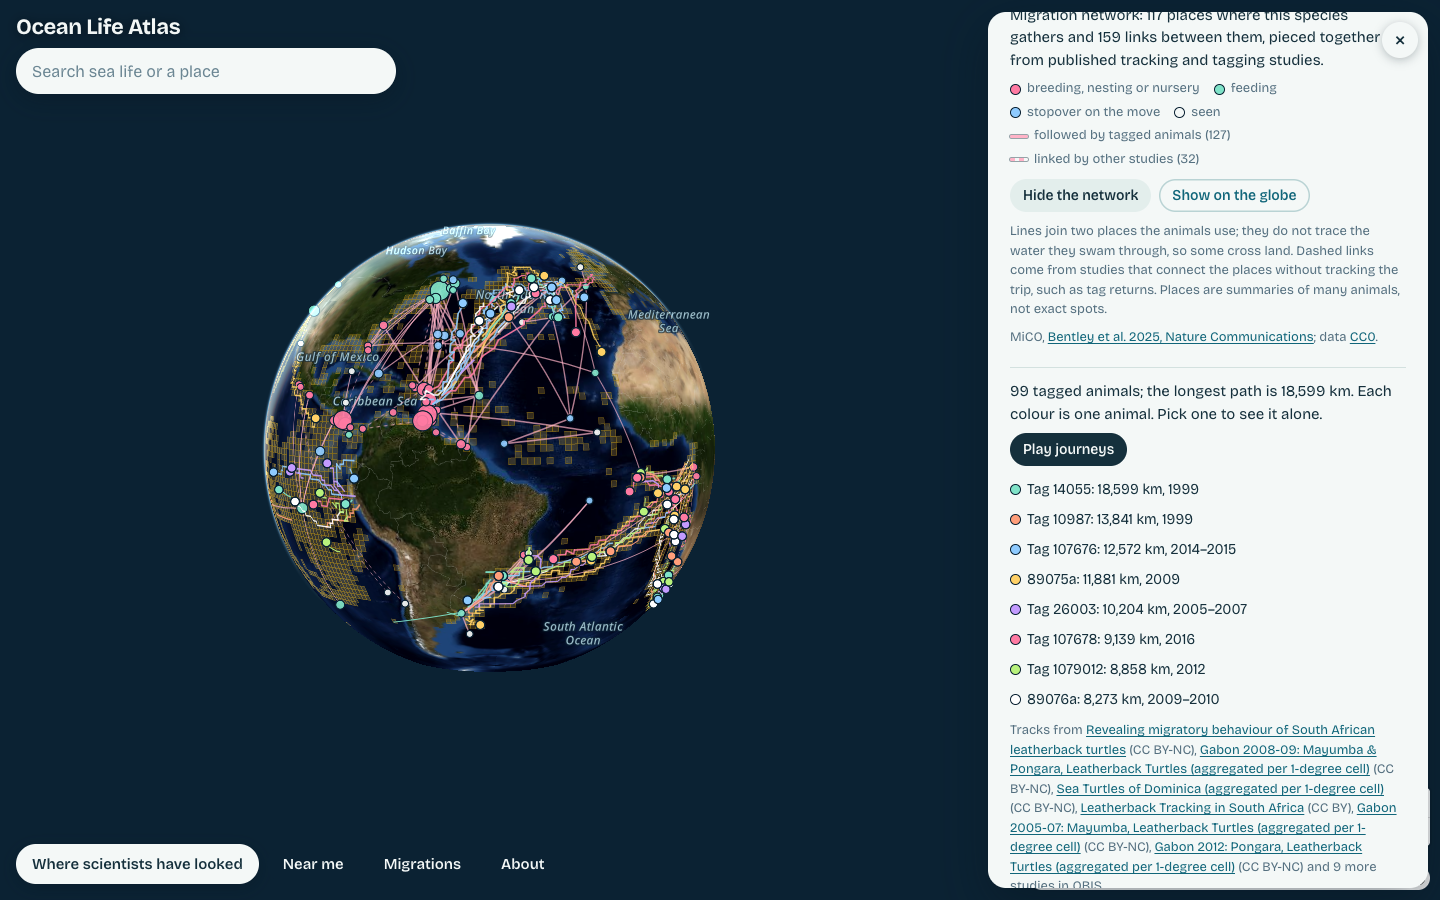
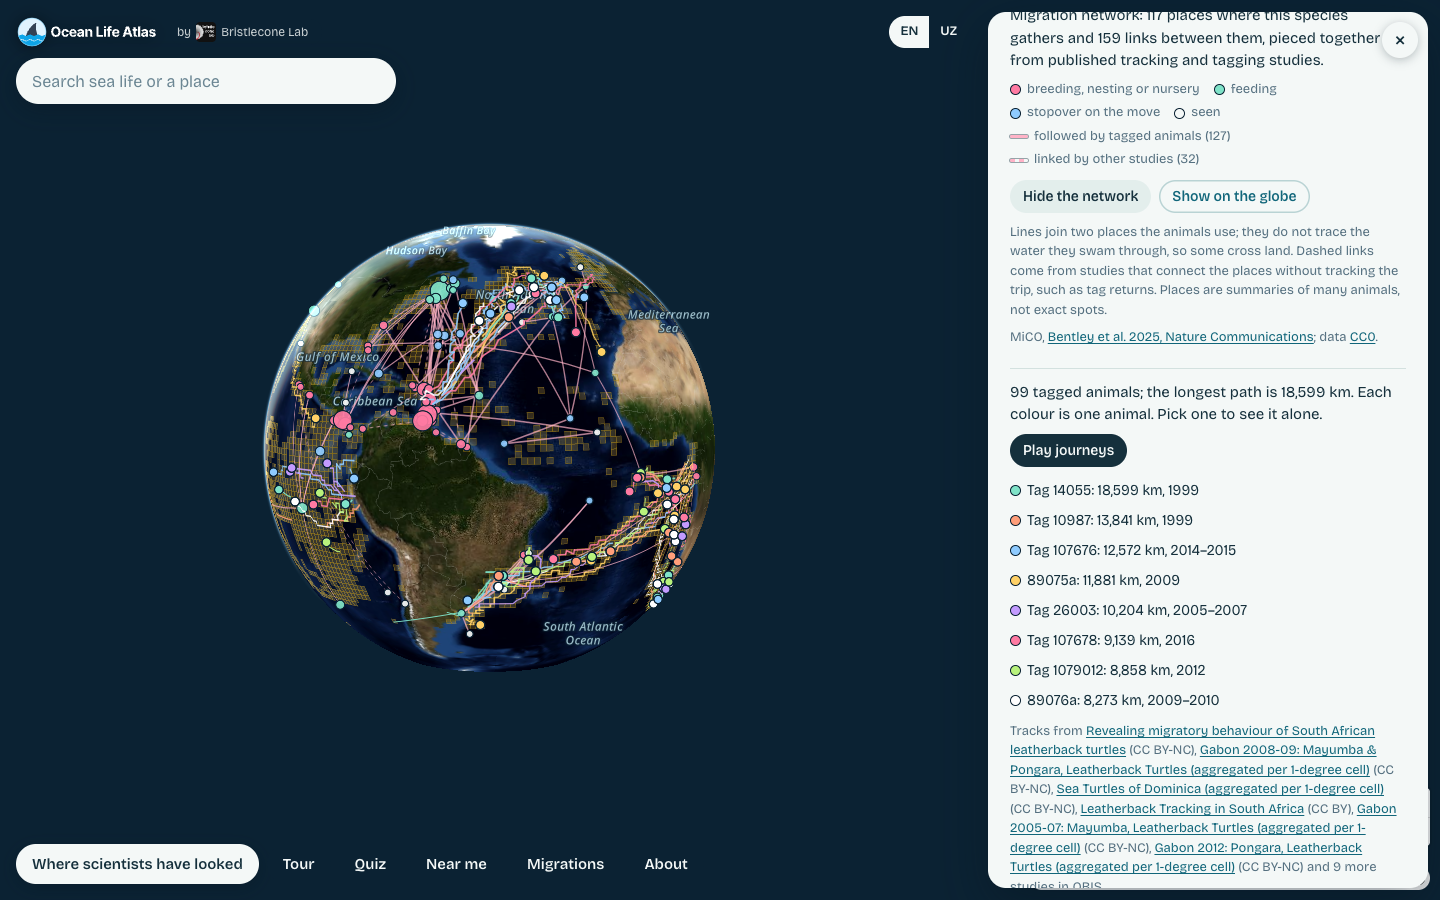
Short README: what it is in one line, the live link, a picture, what you can do
Drops the long feature list, the how-it-works tables and the development notes;
fresh screenshots with the logo.

diff --git a/README.md b/README.md
@@ -2,192 +2,49 @@
   <a href="https://oceanlife.bristleconelab.org">
     <picture>
       <source media="(prefers-color-scheme: dark)" srcset="public/brand/ocean-life-atlas-logo-dark.svg">
-      <img src="public/brand/ocean-life-atlas-logo-light.svg" alt="Ocean Life Atlas" width="420">
+      <img src="public/brand/ocean-life-atlas-logo-light.svg" alt="Ocean Life Atlas" width="400">
     </picture>
   </a>
 </p>
 
-# Ocean Life Atlas
+<p align="center">
+  <b>Click anywhere in the ocean and see what lives there.</b><br>
+  A free 3D globe of sea life: photos and plain names, where each animal lives, how deep, how it migrates,<br>
+  and where nobody has looked yet. Built on 200 million open records.
+</p>
 
-**Click the sea, see who lives there.** An open, plain-language atlas of ocean life on a 3D globe.
+<p align="center"><b><a href="https://oceanlife.bristleconelab.org">oceanlife.bristleconelab.org</a></b></p>
 
-**Live: https://oceanlife.bristleconelab.org**
+<p align="center"><a href="https://oceanlife.bristleconelab.org/#at=-16.50,146.20"><img src="docs/img/life-here.png" alt="The Great Barrier Reef: 3,374 species with photos, names and Red List status" width="900"></a></p>
 
-- Click any spot in the ocean (or *Near me*): the panel lists the sea animals and plants recorded within that 1.4°
-  square (about 150 km across), with photos, everyday names, Red List status and a filter by kind (fish, sharks and
-  rays, sea turtles, sea mammals, seabirds, corals, shells and octopus, crabs, starfish, seaweed and seagrass,
-  plankton, sponges and worms). The mixed view leads with familiar species that have a photo.
-- One search box for sea life and places: an everyday name in any language Wikidata knows ("octopus", "kit akula",
-  "китовая акула"), a scientific name (*Rhincodon typus*), or a sea, gulf, island or reef ("Galapagos", "Red Sea",
-  "Aral Sea"). A species page shows where it has been recorded, a photo, a summary from Wikipedia in the reader's
-  language, how deep it usually lives and the sea surface temperature where it was recorded.
-- **How it travels**, on species pages: the published migration network (places where the species breeds, feeds,
-  stops over or spends a season, and the links between them, from MiCO; solid = followed by tagged animals, dashed =
-  linked by other studies) and, on request, the paths of individual animals that carried satellite or acoustic tags.
-  *Play journeys* runs all of them on one clock, "day N after tagging"; pick one animal to see it alone. Click a
-  place, a link or a track on the globe to see what it is.
-- **When it is recorded**: records by month, north and south of the equator apart (their seasons are opposite), with a
-  tagged animal counted once a day; and records by decade.
-- **Migrations** lists the 109 species with a mapped migration network, by kind of animal, with a filter.
-- The globe has country borders and sea names (OpenStreetMap), Sentinel-2 imagery when you zoom in close, and every
-  place and species is a step in the browser history, so Back works as expected.
-- **How well is this water known?** Each square gets a Chao1 inventory-completeness estimate (how many more species more
-  looking would probably turn up) and the years of its first and last record; *Where scientists have looked* can colour
-  the squares by records per area or by how long ago anyone last recorded anything there.
-- **Size and voice**: body length, weight and lifespan from Wikidata, drawn against a person, and a sound recording from
-  Wikimedia Commons where one exists (humpback song, leatherback hatchlings).
-- **Then and now**: a species' squares before 1990 and since 2010 on one map, with the change in average distance from
-  the equator (and a plain warning that the surveys moved too).
-- **Side by side**: compare two species (records, usual depth, surface temperature, Red List, where their ranges meet).
-- **Take it with you**: the species list of a square as CSV, a range as GeoJSON, and a ready citation.
-- **Tour**: seven stops, from the most-studied coasts to water nobody has looked at in fifty years.
-- **Quiz**: "who has been recorded here?" The globe flies to a well-known sea (Great Barrier Reef, Galápagos, Antarctic
-  Peninsula...); one of four photographed animals is on that square's real OBIS list, the three others come from other
-  quiz places and are checked never to have been recorded there.
-- **How complete**, a third colouring of *Where scientists have looked*: every H3 hexagon of the ocean (~12,400 km²)
-  coloured by the share of its likely species already recorded (Chao1), computed from the whole OBIS store.
-- Interface in English and Uzbek (EN / UZ switch; animal names and Wikipedia follow the chosen language).
-- Species without a photo get a drawn silhouette of their kind instead of a blank tile.
-- Switch on **Where scientists have looked** to see how unevenly the ocean has been sampled. A short species list
-  usually means few people have looked, not that little lives there, and the atlas says so.
+## What you can do
 
-![Life in the outlined square on the Great Barrier Reef](docs/img/life-here.png)
+- **Click the sea:** every species recorded in that 150 km square, with photos, names and Red List status.
+- **Search an animal or a place** in English, Uzbek or any language Wikidata knows: its range, depth, water temperature, size and voice.
+- **Follow migrations:** networks of 109 species and the real tracks of tagged animals such as leatherback turtles and whale sharks.
+- **See the gaps:** where scientists have looked, how long ago, and how complete each area's species list is.
+- **Explore:** then and now, two species side by side, a quiz, a guided tour, lists as CSV.
 
-| A species page | Where scientists have looked |
+| Migrations and tag tracks | How complete each area is |
 |---|---|
-| ![Great hammerhead: photo, Red List status, depth, where it has been recorded](docs/img/species.png) | ![Records per 10,000 km² at sea: bright = many, violet = few, plain globe = none](docs/img/looked.png) |
+| <img src="docs/img/journeys.png" alt="Leatherback sea turtle: migration network and tracks of tagged turtles"> | <img src="docs/img/complete.png" alt="Share of likely species recorded, per hexagon of ocean"> |
 
-| How it travels: leatherback turtle | Follow a migration |
-|---|---|
-| ![Leatherback sea turtle: MiCO migration network and 99 tagged turtles on one clock](docs/img/journeys.png) | ![List of 109 species with a migration network, by kind](docs/img/migrations.png) |
+A short list usually means few people looked, not that little lives there.
 
-| Search by everyday name | On a phone |
-|---|---|
-| ![Searching "octopus": common octopus first](docs/img/search.png) | <img src="docs/img/phone.png" alt="Red Sea on a phone" width="260"> |
+## Data
 
-Every place and species has its own link, for example
-[`#at=-16.50,146.20`](https://oceanlife.bristleconelab.org/#at=-16.50,146.20) (a place) or
-[`#sp=105817`](https://oceanlife.bristleconelab.org/#sp=105817) (a species).
+[OBIS](https://obis.org) (species records), [WoRMS](https://www.marinespecies.org) (names), [Wikidata](https://www.wikidata.org) and
+[Wikimedia Commons](https://commons.wikimedia.org) (photos, names, sounds), [Wikipedia](https://www.wikipedia.org) (summaries),
+[MiCO](https://doi.org/10.1038/s41467-025-59271-7) (migrations), [Marine Regions](https://www.marineregions.org) (places),
+NASA Blue Marble and Sentinel-2 cloudless by EOX (imagery), OpenStreetMap (borders and names).
+Each source keeps its own licence (CC0, CC BY or CC BY-SA); photos and tracking studies are credited where they appear.
 
-## Why
+## Cite
 
-The data already exists: [OBIS](https://obis.org) holds more than 260 million records of where marine species were
-seen or sampled (about 203 million of them at sea once records flagged as on land are left out). But the tools built on it expect you to know Latin names and filter syntax: the OBIS Mapper opens on
-an empty map that only accepts scientific names, AquaMaps is a 2019 site with a small static map, and GBIF's map shows
-the whole planet as repeated dots. This atlas asks the two questions a curious person asks, "what lives here?" and
-"where does this animal live?", and answers them with pictures and everyday words.
+> Ocean Life Atlas (2026). Bristlecone Lab. https://oceanlife.bristleconelab.org. Data: OBIS (2026) Ocean Biodiversity
+> Information System, Intergovernmental Oceanographic Commission of UNESCO, https://obis.org.
 
-## How it works
-
-The site is static: there is no server, and everything is fetched live by your browser from open services that allow
-it.
-
-| Question | Source |
-|---|---|
-| Which species were recorded in this square, how often, Red List status | OBIS API `checklist` (up to 5,000 taxa) and `statistics`, both with `exclude=ON_LAND`; species WoRMS marks as land- or freshwater-only are left out |
-| Where a species has been recorded | OBIS API `occurrence/grid` (geohash-3 squares, `exclude=ON_LAND`) |
-| How deep it lives | OBIS API `statistics/env`: the middle half of depth records (25th to 75th percentile, interpolated on OBIS's 10/100/1,000 m bin ladder); records above the surface are counted apart |
-| Sea surface temperature where recorded | same answer, middle 80 % of the 5 °C bins |
-| Search | WoRMS `AphiaRecordsByVernacular` and OBIS name completion (Latin script), Wikidata `wbsearchentities` (any language, mapped to WoRMS ids through P850), Marine Regions `getGazetteerRecordsByName` (places); species ranked by exact name, then same kind as the exact matches, then OBIS record count |
-| Photo, everyday name in the reader's language, Wikipedia article | Wikidata through [QLever](https://qlever.dev) (Wikidata Query Service as fallback): by WoRMS id (P850), then by scientific name (P225), following old names to the accepted taxon (P12765); photo credits from the Commons API |
-| Sea name for a point | Marine Regions gazetteer |
-| Tracks of tagged animals | OBIS occurrence rows with `basisOfRecord` = MachineObservation and an `organismID` (satellite and acoustic tags, e.g. the US Animal Telemetry Network and IMOS). The API ignores a basis-of-record filter, so a 5,000-row sample finds the tracking studies; then whole studies are paged in (up to 40,000 rows, 40 studies) and studies that do not fit are skipped, never cut short. |
-| Months and decades | months from the same random sample (OBIS orders rows by random UUID); decades from OBIS `statistics/years` |
-| Migration networks | MiCO, stored in `public/data/mico/` (492 KB, 109 species, 1,706 links) by `npm run mico` |
-| Globe | NASA Blue Marble through GIBS; Sentinel-2 cloudless 2016 by EOX (CC BY 4.0) from zoom 6; borders and names from OpenStreetMap vector tiles through OpenFreeMap |
-| Inventory completeness | bias-corrected Chao1 from records per species in the square (shown only when the whole list fits in one answer, because the missing tail is exactly the rare species Chao1 needs) |
-| How complete (global) | `scripts/build_h3_completeness.py`: DuckDB over the OBIS open-data parquet files (s3://obis-open-data/occurrence, 7,466 files, 99 GB in 2026-11; mirrored first, because reading thousands of small remote files from Central Asia ran at ~200 KB/s), records per species per H3 resolution-3 cell (not dropped, not absent, not ON_LAND), bias-corrected Chao1 per cell where it holds 20 species or more; written with the hexagon outlines so the browser needs no H3 library |
-| Last looked at | `npm run data` also fetches the grid for records since 10, 20 and 50 years ago and stores the newest period per square |
-| Size, lifespan, sound | Wikidata P2043 length, P2067 mass, P2250 life expectancy (largest value, units converted) and P51 audio; Commons MP3 transcode for Safari |
-| Then and now | OBIS `occurrence/grid` with `enddate=1989-12-31` and `startdate=2010-01-01`; shift = change in the mean absolute latitude of the squares |
-
-Two things are stored with the site:
-
-- `public/data/records-gh3.json` (150 KB): OBIS records at sea (`exclude=ON_LAND`) in each of 21,698 geohash-3
-  squares, for *Where scientists have looked*; the globe shows them per 10,000 km², because a square at 70° is a
-  third the area of one at the equator. Rebuild with `npm run data` (about 10 s, checks the cell count).
-- `public/data/mico/` (492 KB): one file per species with MiCO sites and links, keyed by WoRMS AphiaID. MiCO's route
-  table has one row per route *and per pair of EEZs it touches* (25,241 rows); the build keys routes by the metasite
-  ids and joins both directions, which leaves 1,706 links (1,177 followed by tagged animals). Rebuild with
-  `npm run mico`: it downloads the Zenodo archive, checks its MD5, matches names through WoRMS (5 by a short list of
-  known scientific names in the script) and fails if fewer than 90 species match.
-
-## Honest limits
-
-- A species list is a record of what was found, not a census. Record counts show where people looked and what they
-  looked for: in the Great Barrier Reef square at 16.5° S, 146.2° E the most-recorded species are a 1 mm copepod and a
-  single-celled dinoflagellate from plankton surveys, then a tern from bird counts (OBIS, 2026-11-26). The "All" view therefore takes each kind of life in turn (plankton and "others" less often) and leads with
-  species that have a photo; the chips show each kind in full, most-recorded first.
-- When a square holds more than 5,000 names (the Great Barrier Reef square holds 9,386), the panel says it shows the
-  5,000 most recorded.
-- Squares are 1.4° on a side, so a square at the coast also holds shore records; on land the panel says so. Records
-  OBIS flags as on land are left out, but a wrong position at sea cannot be told from a right one and appears as it is.
-- Depth: some datasets file the sea-floor depth under the animal's depth, which is why the text uses the middle half of
-  records; the zone chart shows the full spread. Surface temperature is the water at the surface above the record, not
-  where a deep animal lives, and the page says so for deep species.
-- Tracks: tags only report where an animal was when a satellite or a listening station picked it up. Gaps longer
-  than 20 days are left open. Fixes that would need more than a believable speed for the kind of animal (seabirds
-  1,200 km a day, fish, sharks and whales 300, turtles 200, sea cows 100) are dropped; a bad first fix is found by
-  starting from whichever early fix the most later fixes agree with; moves under 5 km do not add to the distance. Some
-  studies round positions to 1° squares to protect the animals, which makes their paths look stepped. Tracking
-  studies are found from a sample, so a very small study can be missed, and the page says "none in a random sample",
-  not "none".
-- MiCO places summarise many animals and studies; they are not exact spots. Its links join two places with a
-  great-circle line, which shows that the places are connected, not the path swum, so some cross land.
-- Interface text is in English; animal names and Wikipedia summaries follow the browser's language where Wikidata has
-  them.
-- Photos and names depend on Wikidata coverage. Where Wikidata has no everyday name, the English name from WoRMS is
-  used; where neither exists, the scientific name is shown.
-
-## Data licences
-
-| Data | Licence |
-|---|---|
-| OBIS records | per dataset, mostly CC BY 4.0 or CC0; cite OBIS (2026) Ocean Biodiversity Information System, Intergovernmental Oceanographic Commission of UNESCO, https://obis.org |
-| WoRMS names | CC BY 4.0, WoRMS Editorial Board (2026) World Register of Marine Species, https://www.marinespecies.org |
-| Wikidata | CC0 |
-| Photos | each file's own licence on Wikimedia Commons, shown with the photo |
-| Wikipedia summaries | CC BY-SA 4.0 |
-| Marine Regions | CC BY 4.0 |
-| NASA Blue Marble | public domain |
-| Borders and place names | © OpenStreetMap contributors, ODbL; tiles by OpenFreeMap |
-| Close-up imagery | Sentinel-2 cloudless 2016 by EOX IT Services, CC BY 4.0 (contains modified Copernicus Sentinel data 2016) |
-| Sounds | each file's own licence on Wikimedia Commons, shown with the player |
-| MiCO migration networks | CC0 1.0; Bentley et al. (2025) Marine megavertebrate migrations connect the global ocean, Nature Communications, https://doi.org/10.1038/s41467-025-59271-7; data https://doi.org/10.5281/zenodo.14873514 |
-| Tracking studies | each study's own licence (CC BY or CC BY-NC), named on the species page |
-
-Code: MIT (see `LICENSE`).
-
-## Search engines
-
-The globe opens species and places by `#sp=` and `#at=` links, which search engines do not read as pages. So
-`scripts/seo_pages.mjs` writes static pages with the real numbers from OBIS, WoRMS and Wikidata: `/species/<name>/`
-for 133 well-known sea animals (the 109 MiCO species and famous ones such as the clownfish, orca and giant squid; with
-the Uzbek name where Wikidata has one), `/places/<name>/` for 12 seas and reefs, `/about/` (FAQ, citation, Dataset
-JSON-LD for the completeness layer), `sitemap.xml` and `robots.txt`. The home page carries WebApplication and WebSite
-JSON-LD and `<noscript>` links. Regenerate with `node scripts/seo_pages.mjs` (about a minute), commit, and after the
-deploy run `scripts/indexnow.sh`. Google Search Console covers the site through the `bristleconelab.org` domain
-property.
-
-## Development
-
-```sh
-npm install
-npm run dev        # http://localhost:5173/ (scripts/screenshots.mjs expects port 5199: npx vite --port 5199)
-npm test           # unit tests (geohash, grouping, depth and temperature, search ranking, places, names, licences, URL state, track cleaning, seasons, MiCO)
-npm run build      # typecheck + production build in dist/
-npm run shots      # regenerate docs/img/*.png from a running dev server (needs Google Chrome)
-```
-
-Pushes to `main` run the tests, build the site and publish it to Cloudflare Pages (project `ocean-life-atlas`,
-`.github/workflows/deploy.yml`), using the `bristleconelab` organisation secret `CLOUDFLARE_API_TOKEN` (Cloudflare
-Pages: Edit). Manual deploy: `npm run build && npx wrangler pages deploy dist
---project-name ocean-life-atlas --branch main`.
-
-## Related
-
-[Seafloor Atlas](https://seaflooratlas.org): the same globe idea for the ocean floor, and how much of it has actually
-been measured.
+Code: MIT. Sister atlases: [Seafloor Atlas](https://seaflooratlas.org), [Fauna Atlas](https://fauna.bristleconelab.org).
 
 ---
 
